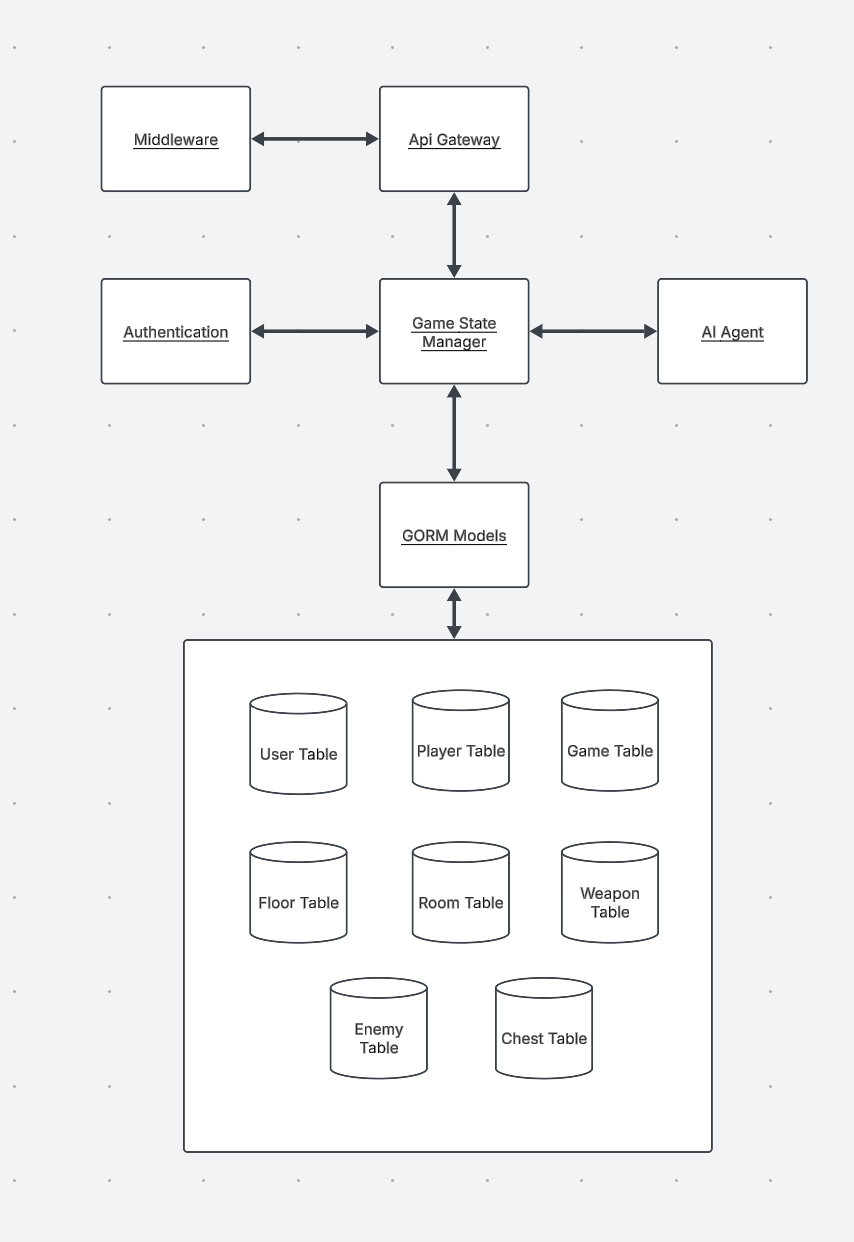
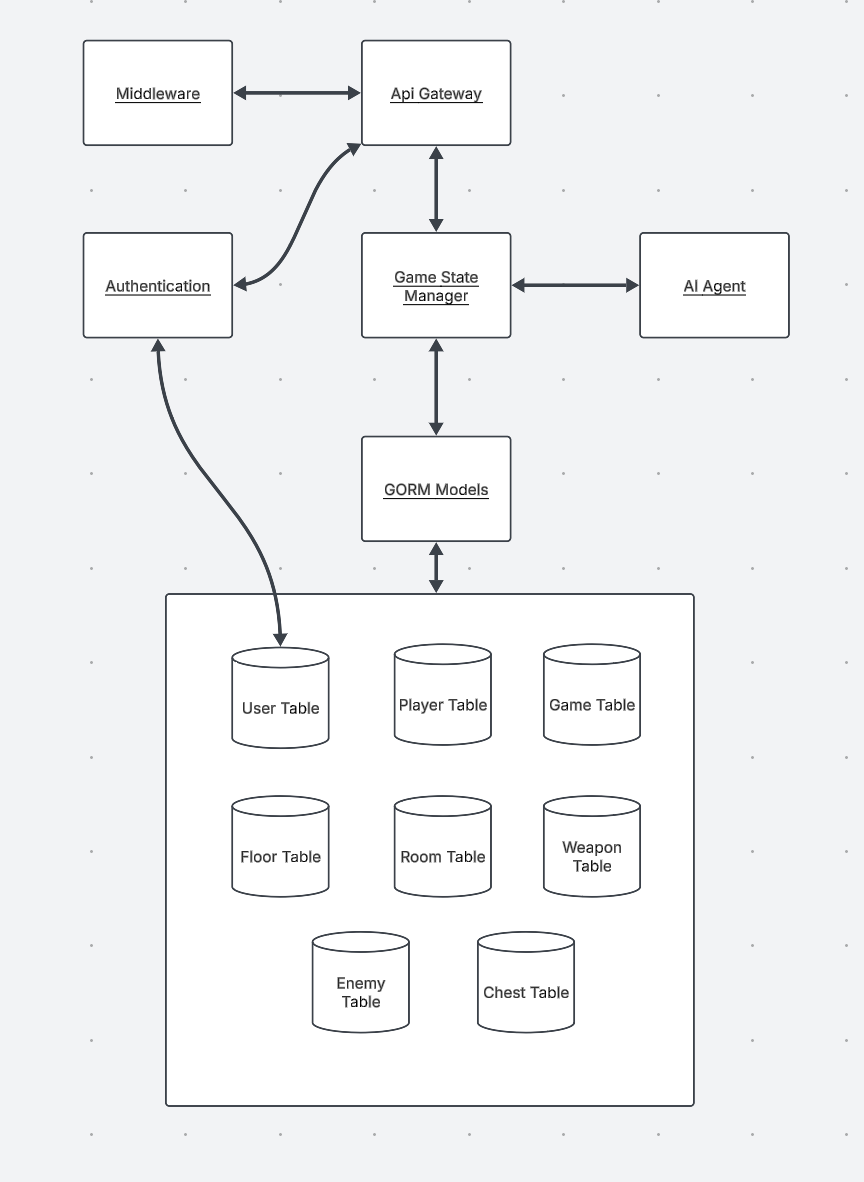
added more UMLS

diff --git a/documentation/LowLevelDesign.md b/documentation/LowLevelDesign.md
@@ -52,7 +52,10 @@ Last Game is structured in such a way as to block as many potential security ris
 
 For other security concerns mentioned in the High-Level Design Document, NaN's approach is to divide them between the following sections:
 
-#### Authentication
+### Authentication
+
+![AuthUML](./assets/auth.png)
+
 Last Game will use JWT tokens for authenticating players. This approach will validate users that have logged in and will engage both the back end and front end to ensure user's game sessions are unique to them. When users create an account or log in, a token will be created and sent to the front end. The front end will then send the token through the Authorization header to the backend, which will validate that the user is authorized to retrieve relevant information. This approach will help with validating if users are subscribed or not in regards to Stripe and will keep each user's game experience consistent throughout their sessions and after playing and saving the game.
 
 Implementation of JWT authentication will be done using the robust Go module jwt-go found at https://github.com/golang-jwt/jwt. This module offers multiple methods that will be helpful:
@@ -94,7 +97,10 @@ For authentication specifically, these methods will be used in the following:
 * Refresh_token()
   - Creates a refresh token that will be sent with the access token so that new access tokens can be created without logging out the user.
 
-#### Encryption in Middleware
+### Middleware
+
+![MiddlewareUML](assets/middleware.png)
+
 Following initial encryption and token creation in authentication, any time the user does something that needs authenticating from the front end, endpoints called will be wrapped in middleware. One of these middlewares will be isAuthenticated(), which will be used in the following process:
 
 | **Step** | **Action** |
